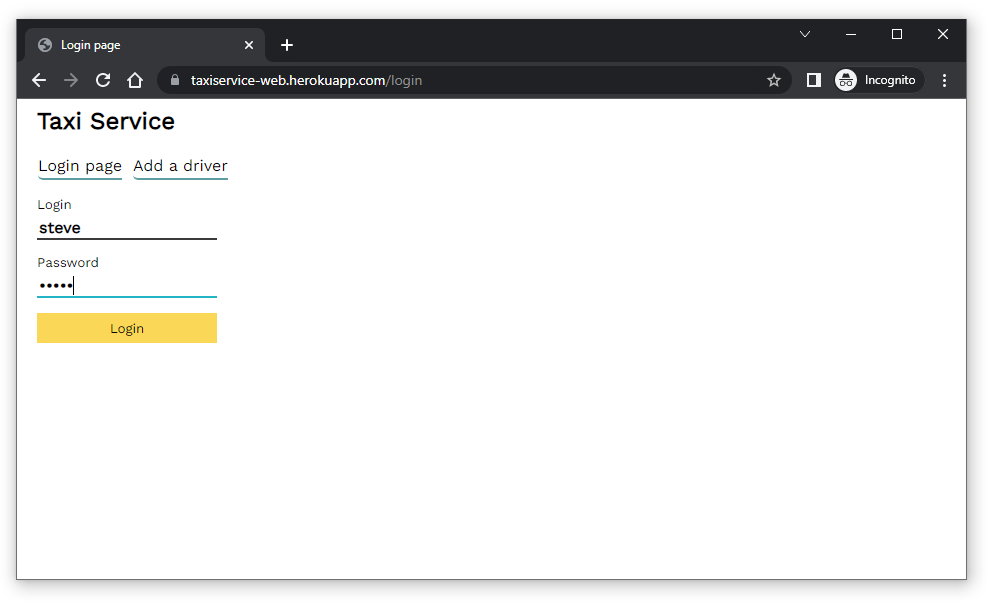
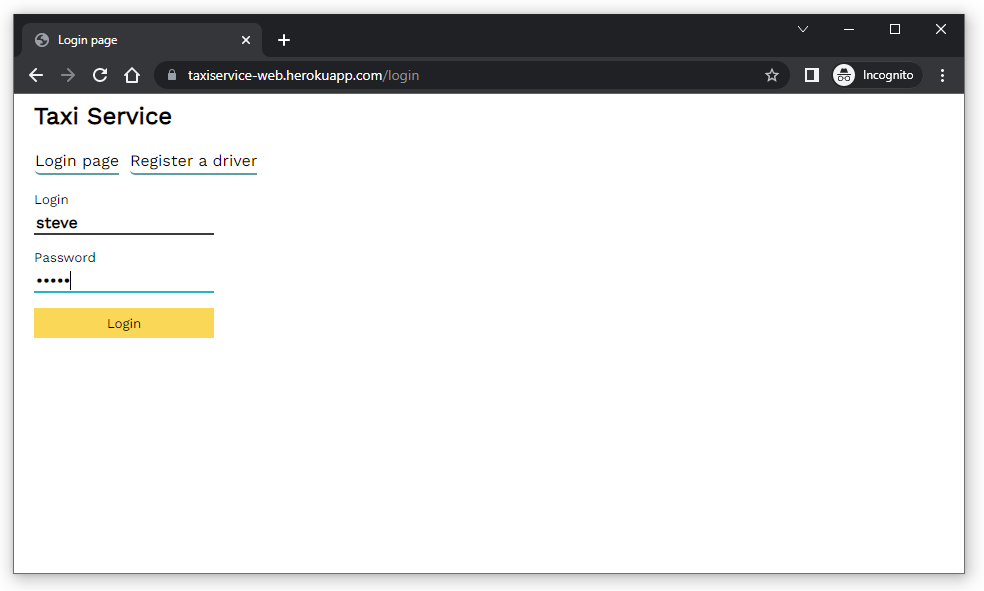
refactor: register & profile routes

Changed region(s): [[0.0, 0.0, 1.0, 0.9746], [0.2439, 0.0609, 0.3049, 0.0914]]

diff --git a/src/main/java/taxi/controller/driver/RegisterDriverController.java b/src/main/java/taxi/controller/driver/RegisterDriverController.java
@@ -11,7 +11,7 @@ import taxi.lib.Injector;
 import taxi.model.Driver;
 import taxi.service.RegistrationService;
 
-@WebServlet(urlPatterns = "/drivers/add")
+@WebServlet(urlPatterns = "/drivers/register")
 public class RegisterDriverController extends HttpServlet {
     private static final Injector injector = Injector.getInstance("taxi");
     private final RegistrationService registrationService = (RegistrationService) injector
@@ -20,7 +20,7 @@ public class RegisterDriverController extends HttpServlet {
     @Override
     public void doGet(HttpServletRequest req, HttpServletResponse resp)
             throws ServletException, IOException {
-        req.getRequestDispatcher("/WEB-INF/views/drivers/add.jsp").forward(req, resp);
+        req.getRequestDispatcher("/WEB-INF/views/drivers/register.jsp").forward(req, resp);
     }
 
     @Override
@@ -37,7 +37,7 @@ public class RegisterDriverController extends HttpServlet {
             resp.sendRedirect(req.getContextPath() + "/drivers");
         } catch (RegistrationException e) {
             req.setAttribute("errorMsg", e.getMessage());
-            req.getRequestDispatcher("/WEB-INF/views/drivers/add.jsp").forward(req, resp);
+            req.getRequestDispatcher("/WEB-INF/views/drivers/register.jsp").forward(req, resp);
         }
     }
 }

diff --git a/src/main/java/taxi/controller/car/DriverProfileController.java b/src/main/java/taxi/controller/car/DriverProfileController.java
@@ -13,8 +13,8 @@ import taxi.model.Driver;
 import taxi.service.CarService;
 import taxi.service.DriverService;
 
-@WebServlet(urlPatterns = "/driver/cars")
-public class GetMyCurrentCarsController extends HttpServlet {
+@WebServlet(urlPatterns = "/profile")
+public class DriverProfileController extends HttpServlet {
     private static final Injector injector = Injector.getInstance("taxi");
     private final CarService carService = (CarService) injector.getInstance(CarService.class);
     private final DriverService driverService =

diff --git a/src/main/java/taxi/filters/AuthenticationFilter.java b/src/main/java/taxi/filters/AuthenticationFilter.java
@@ -22,7 +22,7 @@ public class AuthenticationFilter implements Filter {
     @Override
     public void init(FilterConfig filterConfig) {
         ALLOWED_NOT_LOGGED_IN_URLS.add("/login");
-        ALLOWED_NOT_LOGGED_IN_URLS.add("/drivers/add");
+        ALLOWED_NOT_LOGGED_IN_URLS.add("/drivers/register");
         ALLOWED_NOT_LOGGED_IN_URLS.add("/css/styles.css");
         DISALLOWED_LOGGED_IN_URLS.add("/login");
         DISALLOWED_LOGGED_IN_URLS.add("/");
